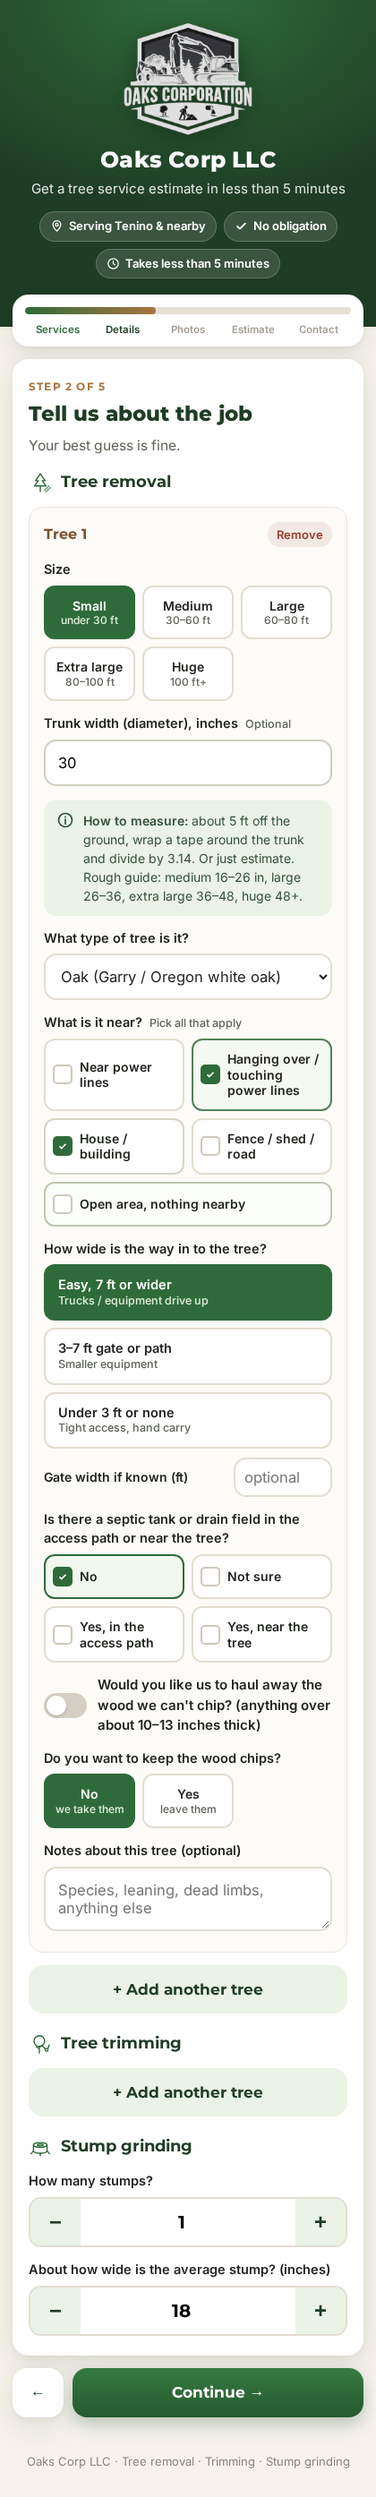
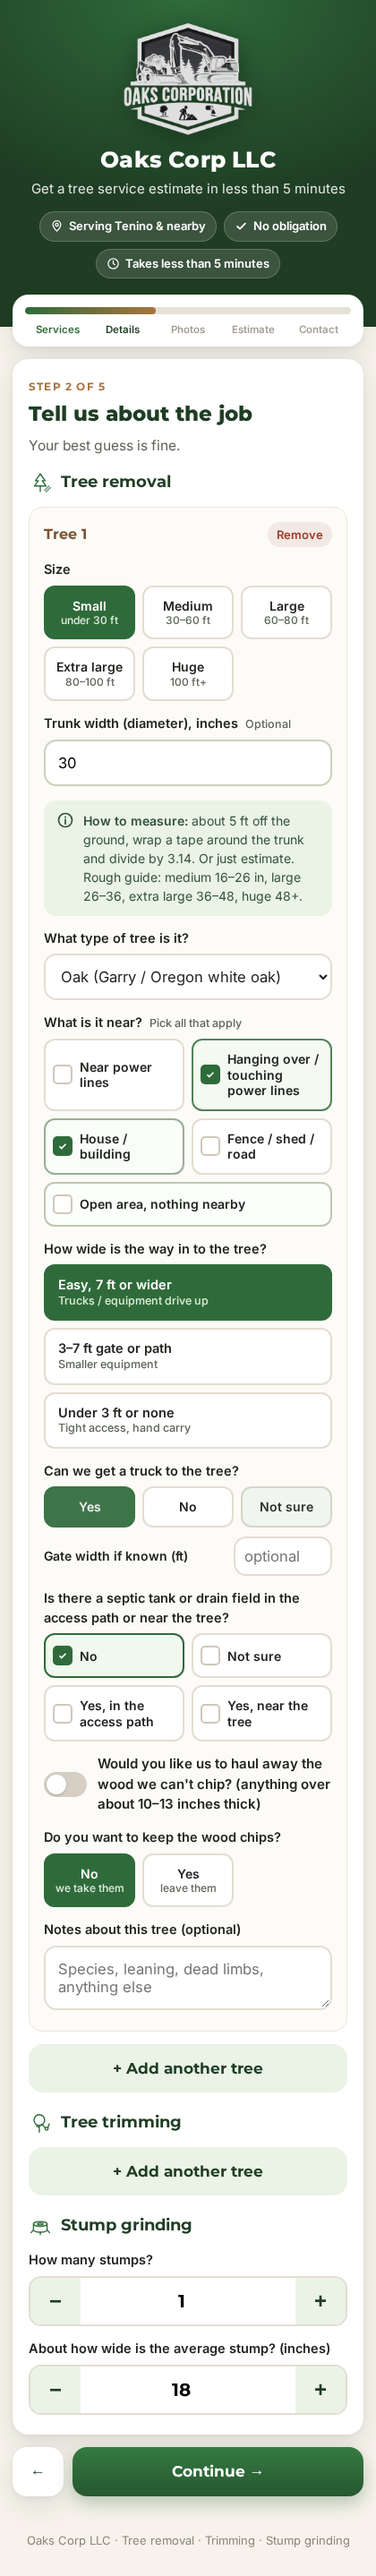
Add truck access question (+5%)

Changed region(s): [[0.0, 0.0, 1.0, 0.9982], [0.681, 0.1872, 0.8667, 0.2496]]

diff --git a/index.html b/index.html
@@ -34,6 +34,7 @@ const PRICES = {
   nearHazards: { powerlines:[0.10,0.25], overlines:[0.25,0.50], house:[0.10,0.25], fence:[0.05,0.25] },
   extraHazardEach: 0.10,
   access: { wide:[0,0], mid:[0.10,0.10], tight:[0.10,0.25] },
+  truck: { yes:[0,0], no:[0.05,0.05], unsure:[0,0.05] }, // can we get a truck to the tree?
   septic: [0, 0.10],      // if in path or near tree (once)
   haulAway: [0.10, 0.25], // wood we can't chip
   // Bushier spreading hardwoods +25%
@@ -211,6 +212,7 @@ select{width:100%;font:16.5px Inter,sans-serif;padding:13px;border:2px solid #e3
 <div class="est"><div class="lbl">Your estimated price range</div><div class="range" id="range"></div>
 <div class="disc"><svg width="15" height="15"><use href="#i-info"/></svg>Estimate only, confirmed on-site</div>
 <div class="lines" id="lines"></div>
+<div class="snote" id="truckNote" style="display:none"><svg width="18" height="18" style="flex:0 0 18px"><use href="#i-info"/></svg><span>Not sure if a truck can reach the tree? No problem. If it can't, it adds about 5%. We'll check on site.</span></div>
 <div class="snote" id="septicNote" style="display:none"><svg width="18" height="18" style="flex:0 0 18px"><use href="#i-info"/></svg><span>Septic tanks and drain fields sometimes add a little cost, sometimes nothing. We'll check it on site.</span></div></div>
 <div class="snote" style="display:flex;margin-top:12px"><svg width="18" height="18" style="flex:0 0 18px"><use href="#i-info"/></svg><span><b>Why a range?</b> Every tree is different. The price depends on whether we can cut it from the ground or have to climb it, whether we haul off the wood, the type of tree (maples and oaks are bushier with heavy limbs), how easy it is to get in, and anything nearby like a house, power lines, or a fence. We'll confirm your final price after we see it.</span></div>
 <div class="sum" id="sumEst"></div>
@@ -272,6 +274,7 @@ function addTree(type){const list=$(type==='removal'?'removalList':'trimList');c
  <div class="multi" data-k="near"><button type="button" data-v="powerlines">Near power lines</button><button type="button" data-v="overlines">Hanging over / touching power lines</button><button type="button" data-v="house">House / building</button><button type="button" data-v="fence">Fence / shed / road</button><button type="button" data-v="open" data-x="1" class="full sel">Open area, nothing nearby</button></div>
  <span class="fl">How wide is the way in to the tree?</span>
  <div class="acc" data-k="access"><button type="button" data-v="wide" class="sel">Easy, 7 ft or wider<small>Trucks / equipment drive up</small></button><button type="button" data-v="mid">3–7 ft gate or path<small>Smaller equipment</small></button><button type="button" data-v="tight">Under 3 ft or none<small>Tight access, hand carry</small></button></div>
+ <span class="fl">Can we get a truck to the tree?</span>${seg('truck',[['yes','Yes',''],['no','No',''],['unsure','Not sure','']])}
  <div class="gw"><span>Gate width if known (ft)</span><input type="number" class="gwidth" min="0" step="0.5" inputmode="decimal" placeholder="optional"></div>
  <span class="fl">Is there a septic tank or drain field in the access path or near the tree?</span>
  <div class="multi" data-k="septic"><button type="button" data-v="no" data-x="1" class="sel">No</button><button type="button" data-v="unsure" data-x="1">Not sure</button><button type="button" data-v="path">Yes, in the access path</button><button type="button" data-v="near">Yes, near the tree</button></div>
@@ -313,7 +316,7 @@ const fmt=v=>'$'+(Math.round(v/10)*10).toLocaleString();const val=(t,k)=>t.query
 const NAMES={xl:'extra large',huge:'huge',removal:'Removal',trimming:'Trimming',small:'small',medium:'medium',large:'large'};
 const LBL={powerlines:'near power lines',overlines:'over/touching power lines',house:'house/building',fence:'fence/shed/road',open:'open area',wide:'7 ft+ (easy)',mid:'3–7 ft',tight:'under 3 ft',no:'no',unsure:'not sure',path:'in access path',near:'near tree'};
 const multi=(t,k)=>[...t.querySelectorAll(`.multi[data-k="${k}"] .sel`)].map(b=>b.dataset.v);
-let treeInfo=[],septicFlag=false;
+let treeInfo=[],septicFlag=false,truckFlag=false;
 const esc=x=>String(x??'').replace(/[&<>"]/g,c=>({'&':'&amp;','<':'&lt;','>':'&gt;','"':'&quot;'}[c]));
 const kv=rows=>'<dl class="kv">'+rows.filter(r=>r[1]!==''&&r[1]!=null).map(r=>`<dt>${r[0]}</dt><dd>${esc(r[1])}</dd>`).join('')+'</dl>';
 const grp=(title,step,body,done)=>`<div class="sg"><div class="sg-h"><b>${title}</b>${done?'':`<button class="edit" type="button" onclick="go(${step})">Edit</button>`}</div>${body}</div>`;
@@ -323,14 +326,14 @@ function summary(done){let h='<h3>Your answers</h3>';
  treeInfo.forEach((t,i)=>{h+=grp(`${SVC[t.service]} · Tree ${treeInfo.slice(0,i+1).filter(x=>x.service===t.service).length}`,2,kv([
   ['Type',t.treeType],['Size',{small:'Small (under 30 ft)',medium:'Medium (30–60 ft)',large:'Large (60–80 ft)',xl:'Extra large (80–100 ft)',huge:'Huge (100 ft+)'}[t.size]],
   ['Near',t.near.map(v=>LBL[v]).join(', ')],['Access',LBL[t.access]+(t.gateWidthFt?` · gate ${t.gateWidthFt} ft`:'')],
-  ['Trunk width',t.diameterIn?t.diameterIn+' in':''],['Trimming',t.amount==='branch'?'Just a branch or two':(t.service==='trimming'?'Full trim':'')],['Septic / drain field',t.septic.map(v=>LBL[v]).join(' + ')],['Haul away wood',t.haulAway?'Yes':'No'],['Keep wood chips',t.keepChips?'Yes, leave them':'No'],['Notes',t.notes]]),done)});
+  ['Trunk width',t.diameterIn?t.diameterIn+' in':''],['Trimming',t.amount==='branch'?'Just a branch or two':(t.service==='trimming'?'Full trim':'')],['Truck to the tree',{yes:'Yes',no:'No',unsure:'Not sure'}[t.truck]],['Septic / drain field',t.septic.map(v=>LBL[v]).join(' + ')],['Haul away wood',t.haulAway?'Yes':'No'],['Keep wood chips',t.keepChips?'Yes, leave them':'No'],['Notes',t.notes]]),done)});
  if(sel.has('stump'))h+=grp('Stump grinding',2,kv([['Stumps',$('stumpCount').value],['Avg. width',$('stumpDia').value+' in']]),done);
  h+=grp('Photos',3,kv([['Photos added',photos.length||'None']]),done);
  if(done)h+=grp('Timing &amp; contact',5,kv([['When',when||'Not chosen'],['Preferred date',$('pdate').value],['Land clearing, excavation, site prep, utilities / drainage',$('landX').checked?'Interested':'No'],['Notes',$('notes').value]]),true);
  return h}
 const SIZES=['small','medium','large','xl','huge'];
 const diaSize=d=>!d?null:d<16?'small':d<26?'medium':d<36?'large':d<48?'xl':'huge';
-function calc(){let lo=0,hi=0;const lines=[];treeInfo=[];septicFlag=false;
+function calc(){let lo=0,hi=0;const lines=[];treeInfo=[];septicFlag=false;truckFlag=false;
  document.querySelectorAll('.tree').forEach(t=>{if(!sel.has(t.dataset.type))return;
   const hs=val(t,'size'),dia=+t.querySelector('.tdia').value||0,ds=diaSize(dia);
   const size=ds&&SIZES.indexOf(ds)>SIZES.indexOf(hs)?ds:hs; // trunk width can bump size up
@@ -340,12 +343,12 @@ function calc(){let lo=0,hi=0;const lines=[];treeInfo=[];septicFlag=false;
   const hz=i=>{const a=near.map(v=>PRICES.nearHazards[v][i]).sort((x,y)=>y-x);return a.length?a[0]+PRICES.extraHazardEach*(a.length-1):0};
   const acc=t.querySelector('.acc .sel').dataset.v,sep=multi(t,'septic');
   const sepYes=sep.includes('path')||sep.includes('near');if(sepYes)septicFlag=true;
-  const gw=t.querySelector('.gwidth').value,haul=t.querySelector('.haul').checked,chips=val(t,'chips')==='yes';
+  const gw=t.querySelector('.gwidth').value,haul=t.querySelector('.haul').checked,chips=val(t,'chips')==='yes',truck=val(t,'truck');if(truck==='unsure')truckFlag=true;
   const tm=PRICES.treeType[t.querySelector('.ttype').value]||1;
-  const m=i=>tm*(1+hz(i)+PRICES.access[acc][i]+(sepYes?PRICES.septic[i]:0)+(haul?PRICES.haulAway[i]:0));
+  const m=i=>tm*(1+hz(i)+PRICES.access[acc][i]+PRICES.truck[truck][i]+(sepYes?PRICES.septic[i]:0)+(haul?PRICES.haulAway[i]:0));
   const tl=b[0]*m(0),th=b[1]*m(1);
-  const name=`${NAMES[t.dataset.type]} · ${t.querySelector('h3').textContent.toLowerCase()} (${amt==='branch'?'a branch or two':NAMES[size]})`;
-  treeInfo.push({service:t.dataset.type,size,heightSize:hs,diameterIn:dia||null,amount:amt,treeType:typeName(t),near:near.length?near:['open'],access:acc,gateWidthFt:gw||null,septic:sep,haulAway:haul,keepChips:chips,notes:t.querySelector('.tnotes').value,range:fmt(tl)+'–'+fmt(th)});
+  const name=`${NAMES[t.dataset.type]} · ${t.querySelector('h3').textContent.toLowerCase()} (${amt==='branch'?'a branch or two':NAMES[size]})${truck==='no'?' · no truck access +5%':truck==='unsure'?' · truck access not sure, +0–5%':''}`;
+  treeInfo.push({service:t.dataset.type,size,heightSize:hs,diameterIn:dia||null,amount:amt,treeType:typeName(t),near:near.length?near:['open'],access:acc,gateWidthFt:gw||null,septic:sep,haulAway:haul,keepChips:chips,truck,notes:t.querySelector('.tnotes').value,range:fmt(tl)+'–'+fmt(th)});
   lo+=tl;hi+=th;lines.push([name,fmt(tl)+'–'+fmt(th)])});
  if(sel.has('stump')){const c=Math.max(1,+$('stumpCount').value||1),d=Math.max(1,+$('stumpDia').value||1),s=PRICES.stump;
   const sl=c*Math.max(s.minimumPerStump,d*s.perInchDiameter[0]),sh=c*Math.max(s.minimumPerStump,d*s.perInchDiameter[1]);
@@ -354,7 +357,7 @@ function calc(){let lo=0,hi=0;const lines=[];treeInfo=[];septicFlag=false;
  hi=Math.max(hi,lo);
  if(photos.length)lines.push(['Photos attached',photos.length]);
  $('sumEst').innerHTML=summary(false);
- $('septicNote').style.display=septicFlag?'flex':'none';
+ $('septicNote').style.display=septicFlag?'flex':'none';$('truckNote').style.display=truckFlag?'flex':'none';
  $('range').textContent=fmt(lo)+' – '+fmt(hi);$('lines').innerHTML=lines.map(l=>`<div><span>${l[0]}</span><span>${l[1]}</span></div>`).join('')}
 $('leadForm').onsubmit=e=>{e.preventDefault();if(!$('name').value.trim()||!$('phone').value.trim()){$('err5').style.display='block';return}
  const lead={name:$('name').value,phone:$('phone').value,email:$('email').value,address:$('addr').value,notes:$('notes').value,services:[...sel],trees:treeInfo,septicOrDrainField:septicFlag,stumps:sel.has('stump')?{count:$('stumpCount').value,diameterIn:$('stumpDia').value}:null,estimate:$('range').textContent,timeline:when,preferredDate:$('pdate').value,landClearingInterest:$('landX').checked,photos:photos.map(p=>p.file)};
